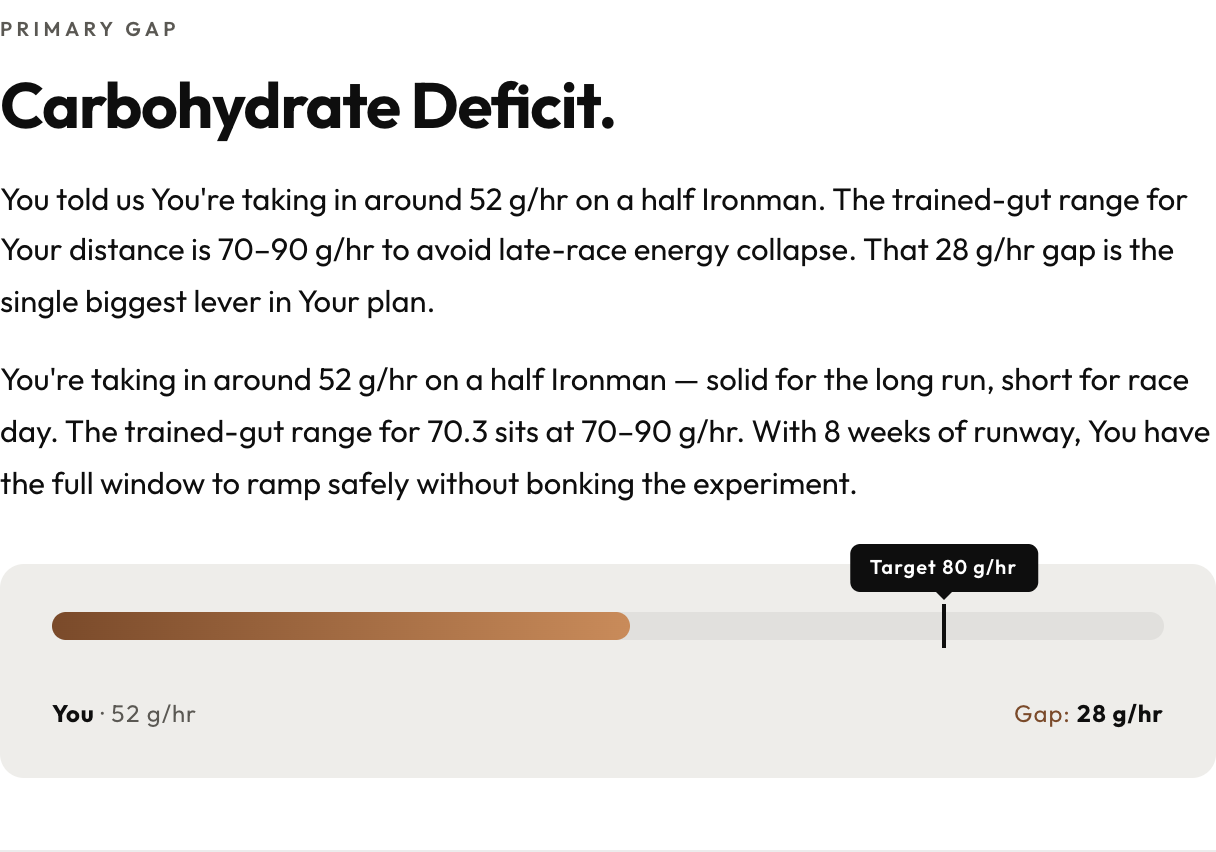
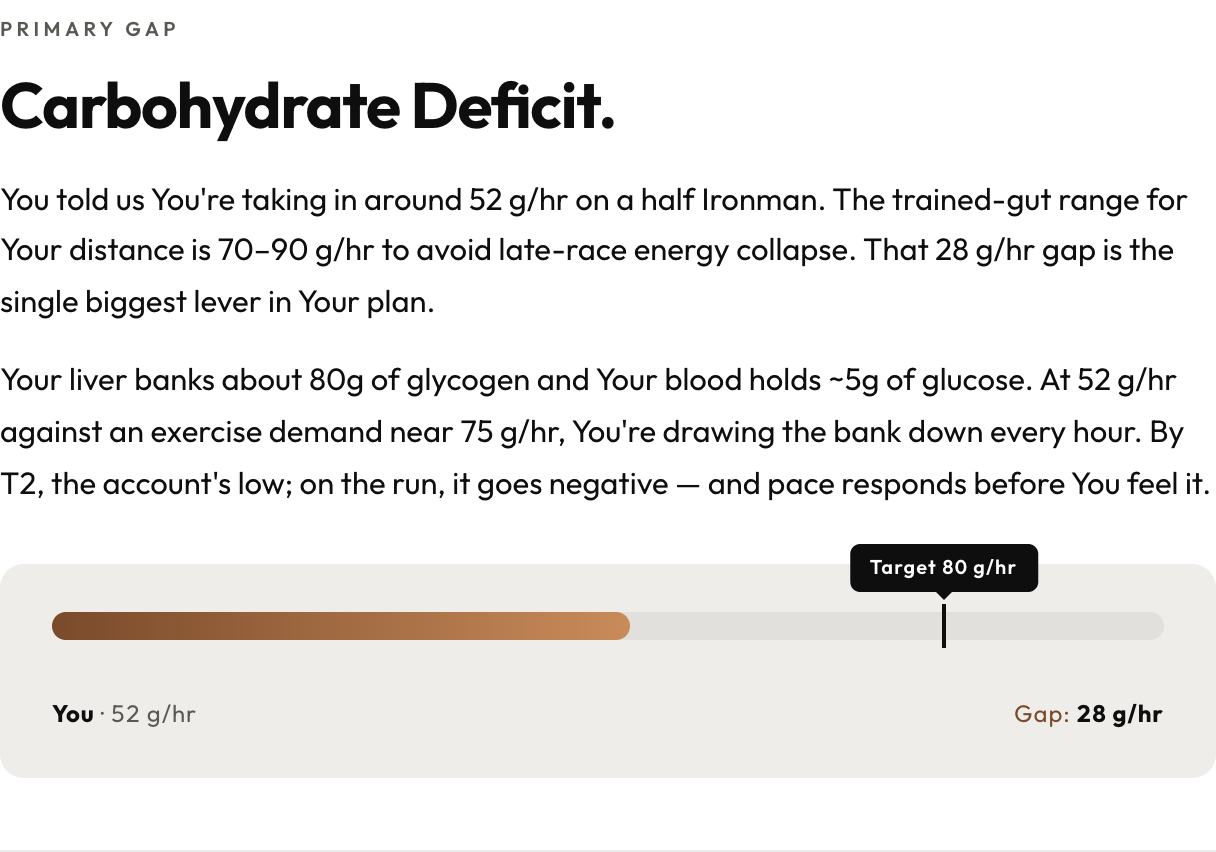
fix(audit): 5 prose+depth fixes from post-launch evaluation
Addresses 5 specific bugs surfaced from first end-to-end test:

1. SECTION 1 DUPLICATION (prompt)
   Section 1 AI prose was paraphrasing the deterministic gap_description verbatim.
   Tightened SECTION RULES: section_1_gap MUST ADD a new layer (physiology,
   failure mechanism, race-day moment). Explicit "DO NOT restate / paraphrase".

2. HALLUCINATED QUANTITIES (prompt + validation)
   AI invented 'Your seven products' (athlete had ~3). Added explicit
   anti-hallucination rules: no inventing product counts, miles, time markers,
   weeks. New validation regex flags 'Your (one|two|.../\d) (product|brand)'
   patterns for admin review.

3. STEALTH-SELL IN SECTION 3 (prompt + validation)
   Section 3 lead-in mentioned 'The Sprint walks You through it' — broke the
   trust-building purpose. Added explicit prompt rule + validation regex
   flagging Sprint/Bundle/RIK references in section_3_lead.

4. GENERIC TACTICS — PARAMETERIZED (audit-gaps.js)
   Converted static TACTICS map to TACTIC_GENERATORS that receive athlete
   context (athleteGhr, targetGhr, weeksOut, brands).
   - Carb-deficit ramp tactic now writes the actual trajectory:
     '52 → 62 → 72 → 80 g/hr over the next 3 weeks, then consolidate at 80
      for the remaining 4 weeks before race-week taper'.
   - Dual-transport tactic detects 1:0.8 brands the athlete already has:
     'Maurten DM and SiS Beta Fuel are already 1:0.8 — Your gap is dose,
[…]

Changed region(s): [[0.0312, 0.4272, 1.0, 0.5188], [0.0, 0.5493, 1.0, 0.5798]]

diff --git a/lib/audit-gaps.js b/lib/audit-gaps.js
@@ -55,58 +55,137 @@ const MINUTE_COST = {
   recovery:  [3, 8],
 };
 
-// === Tactic copy per primary gap (3-4 specific actions, product-agnostic) ===
-const TACTICS = {
-  carb_deficit: [
-    { title: 'Measure what You actually take in',
-      body: 'Count the grams You consume per hour on Your next long session — bottles, gels, chews, everything. Most athletes overestimate by 20–30%. The first move is knowing Your real baseline before You change anything.' },
-    { title: 'Ramp gut training: +10 g/hr each week',
-      body: 'Don\'t jump from 40 g/hr to 80 — Your gut won\'t tolerate it. Increase by 10 g/hr each week. SGLT1 carb transporters physically upregulate with structured exposure. Four weeks gets most athletes from "common" to "performance" range.' },
-    { title: 'Use dual-transport carbs (glucose + fructose)',
-      body: 'Single-source glucose maxes at ~60 g/hr regardless of effort. Dual-transport products in a 1:0.8 glucose:fructose ratio push absorption above 60. Read the label — if it lists only one carb source, You\'re capped.' },
-    { title: 'Anchor fueling to a timer, not hunger',
-      body: 'Set a 20-minute repeating alarm. Take a fixed dose at every beep. Decision fatigue at hour 6 is real — remove the decision in advance and You\'ll hit Your target consistently.' },
-  ],
-  gi_distress: [
-    { title: 'Train Your gut like You train Your legs',
-      body: 'The single biggest predictor of race-day GI distress is whether You\'ve practiced race-intensity fueling in training. If You only fuel easy sessions, Your gut isn\'t prepared for race effort. Three weeks of race-pace fueling sessions changes more than three months of easy-pace ones.' },
-    { title: 'Start lower than You think',
-      body: 'Begin at 30 g/hr on Your next race-pace session. If it holds, push to 40 g/hr the following week. The ramp matters more than the peak — going hot and bonking the experiment teaches You nothing.' },
-    { title: 'Cut high-fiber, fat, and protein 3 hours pre-session',
-      body: 'These slow gastric emptying and compete with exercise for gut blood flow. White rice, banana, honey-on-toast types of foods are race-day friendly. Save eggs, beans, and salads for rest days.' },
-    { title: 'Test every product at race intensity, 3× minimum',
-      body: 'Never race with anything You haven\'t used at race effort at least three times. This includes aid-station nutrition — if the race serves Gatorade Endurance and You\'ve never trained with it, that\'s a future problem.' },
-  ],
-  sodium_hydration: [
-    { title: 'Get a real sweat-rate number',
-      body: 'Your symptom history suggests heavier-than-average sodium loss. Precision Hydration\'s sweat test (~$50, mail-in) gives You mg sodium per liter sweat. In the meantime, target 300–500 mg sodium per hour on sessions over 90 minutes.' },
-    { title: 'Separate fluid from carb tracking',
-      body: 'They\'re two different systems. Drink to thirst under 90 minutes. Above 90 minutes, target 500–800 mL/hr depending on conditions. Track them independently — carb shortfall and dehydration feel similar but have different fixes.' },
-    { title: 'Add sodium independent of carbs',
-      body: 'Electrolyte capsules (SaltStick, Precision Hydration) let You tune sodium without changing carb dose. Two caps per hour for high sweat, one for moderate. This is the cleanest way to fix sodium without overhauling Your fuel.' },
-    { title: 'Second-half cramps = sodium debt, not fitness',
-      body: 'If You\'re cramping after hour 3, it\'s almost always cumulative sodium loss — not magnesium, not hydration volume, not lack of training. Pre-load 500 mg in the 2 hours before start to bank an early buffer.' },
-  ],
-  no_system: [
-    { title: 'Measure before changing anything',
-      body: 'On Your next long session, write down exactly what You consumed, when, and how much. Don\'t change products yet — just track. You can\'t fix what You can\'t measure, and most athletes are off by 30%+ from what they think they\'re doing.' },
-    { title: 'Pick one session per week as Your fueling lab',
-      body: 'Use it to test a specific variable: a new product, a higher carb target, a different timing interval. Keep everything else the same. One change per session, every week. Inside two months, You\'ll have data You actually trust.' },
-    { title: 'Build a race-day plan in 30-minute blocks',
-      body: 'Specify product, dose, and timing for every 30 minutes of the race. Write it on a piece of tape on Your top tube. The plan should be executable without thinking — because at hour 8, You won\'t be.' },
-    { title: 'Pre-calculate Your total race-day needs',
-      body: 'Target g/hr × expected race hours = total grams. Source the exact products and quantities in advance. Don\'t rely on aid stations as Your primary fuel — they\'re Your backup. Pack what You need.' },
-  ],
-  recovery: [
-    { title: 'Within 30 minutes of finishing: protein + carbs',
-      body: 'The glycogen window closes fast. Target 20–30 g protein and 0.5–1.0 g carb/kg bodyweight. Doesn\'t need to be fancy — chocolate milk hits the macro split. Skip the bar that takes 4 hours of digesting.' },
-    { title: 'Replace what You sweated out',
-      body: 'Weigh Yourself before and after long sessions. Every 1 lb lost = ~16 oz fluid debt. Replace 125–150% of that over the next 2–4 hours, with sodium. Plain water alone dilutes Your blood sodium.' },
-    { title: 'Sleep is the only real recovery tool',
-      body: 'Supplements, ice baths, compression — all marginal. Sleep is the multiplier. Treat it like training: a long ride is 4 hours, sleep should be 8+. Skip the late strength session if it costs an hour of bedtime.' },
-    { title: 'Use easy days as easy days',
-      body: 'A "Z1 recovery spin" at Z2 isn\'t recovery — it\'s low-quality training. If You\'re training 12+ hours a week, easy days have to actually be easy or the next quality session will be compromised.' },
-  ],
+// === Brand → carb-transport classification (for personalized dual-transport tactic) ===
+// Brands with clear 1:0.8 glucose:fructose dual-transport products
+const DUAL_TRANSPORT_BRANDS = {
+  maurten:    'Maurten DM',
+  sis:        'SiS Beta Fuel',
+  precision:  'Precision PF',
+};
+// Brands with partial dual-transport SKUs (some products yes, others no)
+const PARTIAL_DUAL_BRANDS = {
+  gu:        'GU Roctane',
+  tailwind:  'Tailwind Endurance Fuel',
+};
+
+function listBrandNames(brandKeys, brandMap) {
+  const matched = (brandKeys ?? []).filter(b => brandMap[b]).map(b => brandMap[b]);
+  if (matched.length === 0) return null;
+  if (matched.length === 1) return matched[0];
+  if (matched.length === 2) return `${matched[0]} and ${matched[1]}`;
+  return `${matched.slice(0, -1).join(', ')}, and ${matched[matched.length - 1]}`;
+}
+
+// Build the ramp trajectory (e.g. [62, 72, 80]) given current g/hr, target, weeks available.
+// Returns null if data missing or already at target.
+function buildRampSchedule(currentGhr, targetGhr, weeksOut) {
+  if (currentGhr == null || targetGhr == null || weeksOut == null || weeksOut < 1) return null;
+  if (currentGhr >= targetGhr) return null;
+  const steps = [];
+  let cur = currentGhr;
+  let week = 0;
+  while (cur < targetGhr && week < 4) {
+    cur = Math.min(targetGhr, cur + 10);
+    steps.push(cur);
+    week++;
+  }
+  return steps;
+}
+
+function pluralWeeks(n) { return n === 1 ? 'week' : 'weeks'; }
+
+// === Tactic generators — return personalized tactic arrays from athlete context ===
+// Context shape: { athleteGhr, targetGhr, weeksOut, brands, weeklyHours }
+const TACTIC_GENERATORS = {
+  carb_deficit: (ctx) => {
+    const { athleteGhr, targetGhr, weeksOut, brands } = ctx;
+    const ramp = buildRampSchedule(athleteGhr, targetGhr, weeksOut);
+    const rampLine = ramp
+      ? `Go ${athleteGhr} → ${ramp.join(' → ')} g/hr over the next ${ramp.length} ${pluralWeeks(ramp.length)}` +
+        (weeksOut > ramp.length
+          ? `, then consolidate at ${targetGhr} g/hr for the remaining ${weeksOut - ramp.length} ${pluralWeeks(weeksOut - ramp.length)} before race-week taper. `
+          : `. `) +
+        `SGLT1 carb transporters physically upregulate with structured exposure — the schedule matters more than the peak.`
+      : `Increase intake by 10 g/hr each week until You hit the trained-gut range. SGLT1 carb transporters physically upregulate with structured exposure — the schedule matters more than the peak.`;
+
+    const dualBrands    = listBrandNames(brands, DUAL_TRANSPORT_BRANDS);
+    const partialBrands = listBrandNames(brands, PARTIAL_DUAL_BRANDS);
+    const dualLine = dualBrands
+      ? `${dualBrands} ${dualBrands.includes(' and ') || dualBrands.includes(',') ? 'are' : 'is'} already 1:0.8 dual-transport — the format works above 60 g/hr. Your gap is dose, not type. Increase how much, not what.`
+      : partialBrands
+      ? `${partialBrands} ${partialBrands.includes(' and ') || partialBrands.includes(',') ? 'are' : 'is'} partially dual-transport. Fine for ramping, but for race-day reliability above 70 g/hr add a true 1:0.8 product (Maurten DM, SiS Beta Fuel, or Precision PF).`
+      : `Single-source glucose maxes at ~60 g/hr regardless of effort. To push absorption above 60, switch to a dual-transport (1:0.8 glucose:fructose) product like Maurten DM, SiS Beta Fuel, or Precision PF.`;
+
+    return [
+      { title: 'Measure what You actually take in',
+        body: `Count the grams You consume per hour on Your next long session — bottles, gels, chews, everything. Most athletes overestimate by 20–30%. The first move is knowing Your real baseline before You change anything.` },
+      { title: 'Ramp gut training in steps',
+        body: rampLine },
+      { title: 'Use dual-transport carbs (glucose + fructose)',
+        body: dualLine },
+      { title: 'Anchor fueling to a timer, not hunger',
+        body: `Set a 20-minute repeating alarm. Take a fixed dose at every beep. Decision fatigue at hour 6 is real — remove the decision in advance and You\'ll hit Your target consistently.` },
+    ];
+  },
+
+  gi_distress: (ctx) => {
+    const { weeksOut } = ctx;
+    const startLine = (weeksOut != null && weeksOut >= 4)
+      ? `Start at 30 g/hr on Your next race-pace session. If it holds, push to 40, then 50, building one step per week. You have ${weeksOut} ${pluralWeeks(weeksOut)} — enough for a controlled ramp.`
+      : (weeksOut != null && weeksOut >= 2)
+      ? `Start at 30 g/hr on Your next race-pace session. With ${weeksOut} ${pluralWeeks(weeksOut)} until race, focus on tolerance over intake peaks — don't try to maximize this close.`
+      : `Start at 30 g/hr on Your next race-pace session. If it holds, push to 40 g/hr the following week. The ramp matters more than the peak.`;
+
+    return [
+      { title: 'Train Your gut like You train Your legs',
+        body: `The single biggest predictor of race-day GI distress is whether You\'ve practiced race-intensity fueling in training. If You only fuel easy sessions, Your gut isn\'t prepared for race effort. Three weeks of race-pace fueling sessions changes more than three months of easy-pace ones.` },
+      { title: 'Start lower than You think',
+        body: startLine },
+      { title: 'Cut high-fiber, fat, and protein 3 hours pre-session',
+        body: `These slow gastric emptying and compete with exercise for gut blood flow. White rice, banana, honey-on-toast types of foods are race-day friendly. Save eggs, beans, and salads for rest days.` },
+      { title: 'Test every product at race intensity, 3× minimum',
+        body: `Never race with anything You haven\'t used at race effort at least three times. This includes aid-station nutrition — if the race serves Gatorade Endurance and You\'ve never trained with it, that\'s a future problem.` },
+    ];
+  },
+
+  sodium_hydration: (ctx) => {
+    return [
+      { title: 'Get a real sweat-rate number',
+        body: `Your symptom history suggests heavier-than-average sodium loss. Precision Hydration\'s sweat test (~$50, mail-in) gives You mg sodium per liter sweat. In the meantime, target 300–500 mg sodium per hour on sessions over 90 minutes.` },
+      { title: 'Separate fluid from carb tracking',
+        body: `They\'re two different systems. Drink to thirst under 90 minutes. Above 90 minutes, target 500–800 mL/hr depending on conditions. Track them independently — carb shortfall and dehydration feel similar but have different fixes.` },
+      { title: 'Add sodium independent of carbs',
+        body: `Electrolyte capsules (SaltStick, Precision Hydration) let You tune sodium without changing carb dose. Two caps per hour for high sweat, one for moderate. This is the cleanest way to fix sodium without overhauling Your fuel.` },
+      { title: 'Second-half cramps = sodium debt, not fitness',
+        body: `If You\'re cramping after hour 3, it\'s almost always cumulative sodium loss — not magnesium, not hydration volume, not lack of training. Pre-load 500 mg in the 2 hours before start to bank an early buffer.` },
+    ];
+  },
+
+  no_system: (ctx) => {
+    return [
+      { title: 'Measure before changing anything',
+        body: `On Your next long session, write down exactly what You consumed, when, and how much. Don\'t change products yet — just track. You can\'t fix what You can\'t measure, and most athletes are off by 30%+ from what they think they\'re doing.` },
+      { title: 'Pick one session per week as Your fueling lab',
+        body: `Use it to test a specific variable: a new product, a higher carb target, a different timing interval. Keep everything else the same. One change per session, every week. Inside two months, You\'ll have data You actually trust.` },
+      { title: 'Build a race-day plan in 30-minute blocks',
+        body: `Specify product, dose, and timing for every 30 minutes of the race. Write it on a piece of tape on Your top tube. The plan should be executable without thinking — because at hour 8, You won\'t be.` },
+      { title: 'Pre-calculate Your total race-day needs',
+        body: `Target g/hr × expected race hours = total grams. Source the exact products and quantities in advance. Don\'t rely on aid stations as Your primary fuel — they\'re Your backup. Pack what You need.` },
+    ];
+  },
+
+  recovery: (ctx) => {
+    return [
+      { title: 'Within 30 minutes of finishing: protein + carbs',
+        body: `The glycogen window closes fast. Target 20–30 g protein and 0.5–1.0 g carb/kg bodyweight. Doesn\'t need to be fancy — chocolate milk hits the macro split. Skip the bar that takes 4 hours of digesting.` },
+      { title: 'Replace what You sweated out',
+        body: `Weigh Yourself before and after long sessions. Every 1 lb lost = ~16 oz fluid debt. Replace 125–150% of that over the next 2–4 hours, with sodium. Plain water alone dilutes Your blood sodium.` },
+      { title: 'Sleep is the only real recovery tool',
+        body: `Supplements, ice baths, compression — all marginal. Sleep is the multiplier. Treat it like training: a long ride is 4 hours, sleep should be 8+. Skip the late strength session if it costs an hour of bedtime.` },
+      { title: 'Use easy days as easy days',
+        body: `A "Z1 recovery spin" at Z2 isn\'t recovery — it\'s low-quality training. If You\'re training 12+ hours a week, easy days have to actually be easy or the next quality session will be compromised.` },
+    ];
+  },
 };
 
 // === Helpers ===
@@ -302,13 +381,24 @@ export function identifyPrimaryGap(intake) {
 
   const winner = pickPrimaryGap({ raceDistance, candidates, giHistory: intake.giHistory, carbsPerHour: intake.carbsPerHour });
 
+  // Context passed to every tactic generator — single source of personalization data
+  const tacticCtx = {
+    athleteGhr,
+    targetGhr,
+    weeksOut,
+    brands: intake.brands ?? [],
+    weeklyHours: intake.weeklyHours,
+    bodyWeight: intake.bodyWeight,
+    weightUnit: intake.weightUnit,
+  };
+
   if (!winner) {
     return {
       gap_type: 'none',
       gap_title: 'You\'re well-tuned for Your race',
       gap_description: 'Your current fueling profile looks well-set for Your race distance. The audit\'s focus shifts to consistency, race-week execution, and validating Your existing setup.',
       minute_cost: { min: 0, max: 5 },
-      tactics: TACTICS.recovery,
+      tactics: TACTIC_GENERATORS.recovery(tacticCtx),
       routing: chooseRouting({ raceDistance, weeksOut }),
       athleteGhr,
       targetGhr,
@@ -321,7 +411,7 @@ export function identifyPrimaryGap(intake) {
     gap_title: GAP_TITLES[winner.type],
     gap_description: describeGap(winner.type, winner.data, intake),
     minute_cost: { min: winner.data.min, max: winner.data.max },
-    tactics: TACTICS[winner.type],
+    tactics: TACTIC_GENERATORS[winner.type](tacticCtx),
     routing: chooseRouting({ raceDistance, weeksOut }),
     athleteGhr,
     targetGhr,
@@ -330,4 +420,4 @@ export function identifyPrimaryGap(intake) {
   };
 }
 
-export { TACTICS, GAP_TITLES, RACE_TARGET_GHR };
+export { TACTIC_GENERATORS, GAP_TITLES, RACE_TARGET_GHR };

diff --git a/lib/ai-drafter.js b/lib/ai-drafter.js
@@ -45,24 +45,43 @@ REFERENCE THEIR DATA:
 SECTION RULES:
 
 section_1_gap (60–90 words, 2-3 sentences)
-- Expand the identified primary gap with their data. Don't restate the gap title.
-- Reference specifics: their intake number, their gut history, their race.
-- End with the implication: what this gap means for race day.
+- MUST ADD a NEW layer the deterministic gap_description doesn't already cover:
+  the physiology behind the failure, what the failure looks like in the race
+  (mile X, hour Y, a specific symptom), or a race-day decision moment.
+- DO NOT restate the gap numbers. DO NOT paraphrase the gap_description.
+- Reference at most one specific (intake number OR gut history OR race) — never all three again.
+- The reader has just read the deterministic prose; Your job is to ADD, not repeat.
 
 section_2_impact (50–80 words, 2-3 sentences)
-- Translate the minute-cost number into something the athlete feels.
-- If they gave a goal_time, reference it concretely ("the difference between Your 5:15 goal and a 5:33 finish").
-- Avoid restating the gap. Stay on time/cost.
+- MUST INTRODUCE a new dimension. Acceptable choices:
+  (a) the physiology of the failure ("glycogen drops below ~30% liver stores → pace
+      collapses 15-25% in the next 90 min, regardless of fitness")
+  (b) a race-day decision tree ("at hour 4 You'll feel like easing up — that's
+      the carb shortfall talking, not Your legs")
+  (c) a visceral failure scene ("when the deficit catches You, it isn't a wall —
+      it's a fog: aid stations stop registering, You miss the bottle hand-off…")
+- If they gave a goal_time, You may reference it ONCE concretely.
+- DO NOT just restate the minute-cost number in different words.
 
 section_3_lead (20–40 words, 1-2 sentences)
-- A short bridge into the tactics list. Frame the tactics as "this week" actions.
-- Do NOT enumerate tactics — those are hand-written and rendered separately.
+- A short bridge into the tactics list. Frame as "this week" actions.
+- DO NOT mention "Sprint", "Bundle", "RIK", or any RIK product. Section 3's
+  job is to earn trust through tactics — selling happens in Section 4.
+- DO NOT enumerate tactics — those are rendered separately.
 
 section_4_routing (50–80 words, 2-3 sentences)
-- Honest routing recommendation. Use the routing.tier and routing.explanation as the spine.
-- Make it specific to THIS athlete's situation (race date, gut, distance).
-- One clear next step. End with "— Bek" if natural; otherwise just end the recommendation.
-- Never promise a result. Never say "you will" — say "the Sprint is built for…" or "this gives You…".
+- Honest routing recommendation. Use routing.explanation as the spine.
+- Make it specific to THIS athlete (race date, gut, distance).
+- One clear next step. End with "— Bek" only if it lands naturally.
+- Never promise a result. Use "Sprint is built for…" or "this gives You…".
+
+HARD ANTI-HALLUCINATION RULES (any violation triggers manual review):
+- DO NOT invent quantities the athlete didn't give You. Specifically:
+  - DO NOT say "Your seven products" or any product count — You don't know how many.
+  - DO NOT reference specific miles or kilometers the athlete didn't mention.
+  - DO NOT fabricate "weeks out" numbers — use only what's in the engine block.
+  - DO NOT invent goal times the athlete didn't share.
+- If You don't have data, leave it general. Generic is fine; fabricated is fatal.
 
 HARD CONSTRAINTS:
 - Total combined word count across all 4 sections: 180–290 words.
@@ -168,6 +187,15 @@ function validateDrafts(d) {
     if (allText.includes(word.toLowerCase())) {
       d._ftc_warning = (d._ftc_warning ?? []).concat(word);
     }
+  }
+  // Stealth-sell guard: section_3_lead must not name RIK products
+  if (/\b(Sprint|Bundle|RIK Athletica|RIK\b)/i.test(d.section_3_lead ?? '')) {
+    d._ftc_warning = (d._ftc_warning ?? []).concat('section_3_lead_mentions_product');
+  }
+  // Hallucination guard: flag if Section 1 or 3 invents a product count like "Your seven products"
+  if (/\bYour (one|two|three|four|five|six|seven|eight|nine|ten|\d+) (product|products|brand|brands)\b/i.test(
+        `${d.section_1_gap} ${d.section_3_lead}`)) {
+    d._ftc_warning = (d._ftc_warning ?? []).concat('possible_product_count_hallucination');
   }
 }
 
